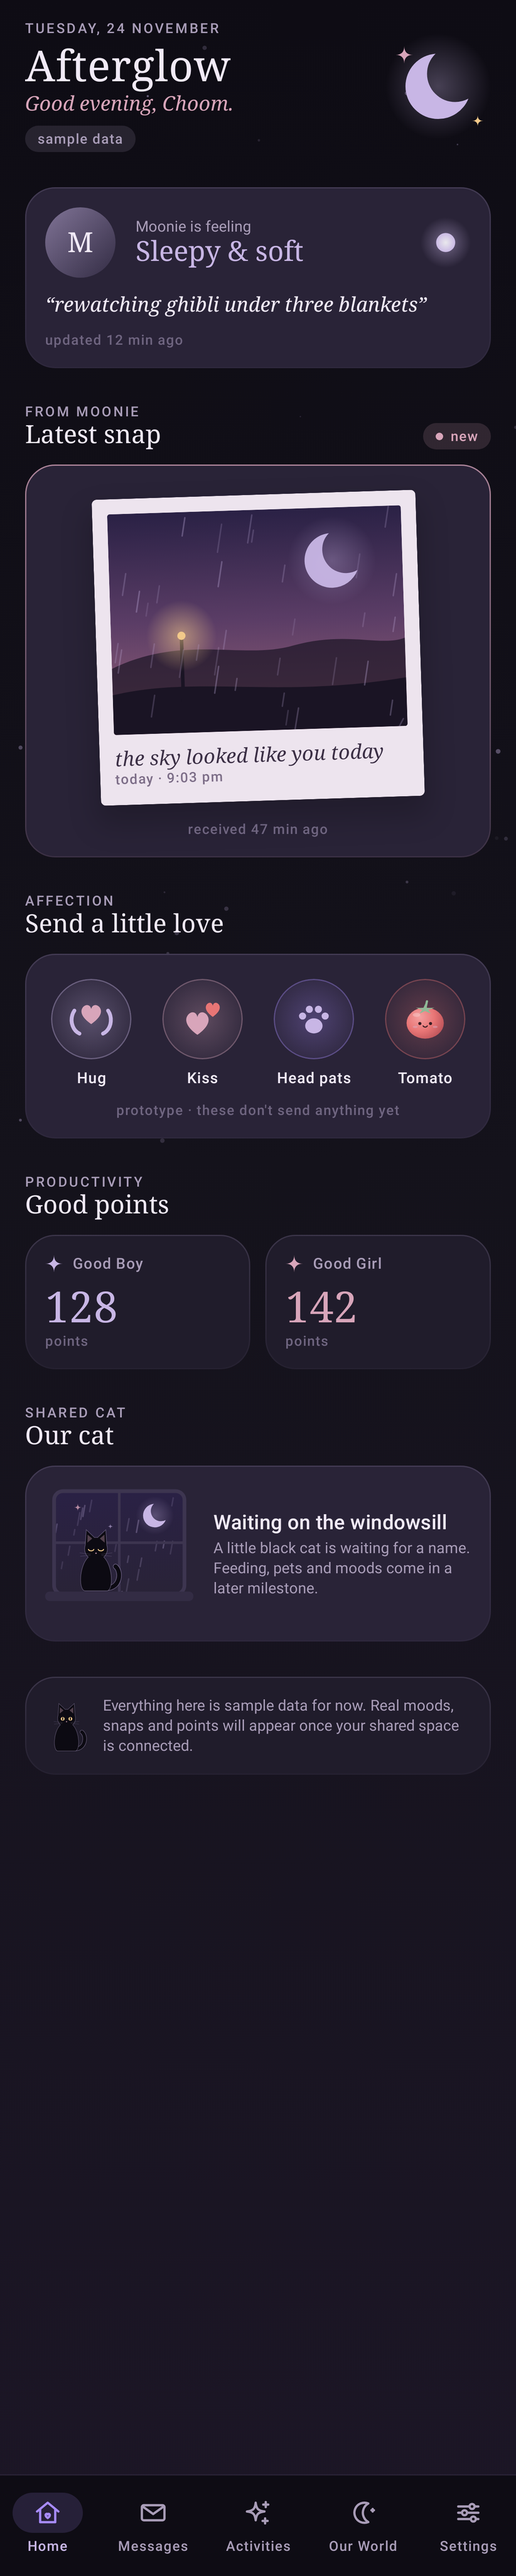
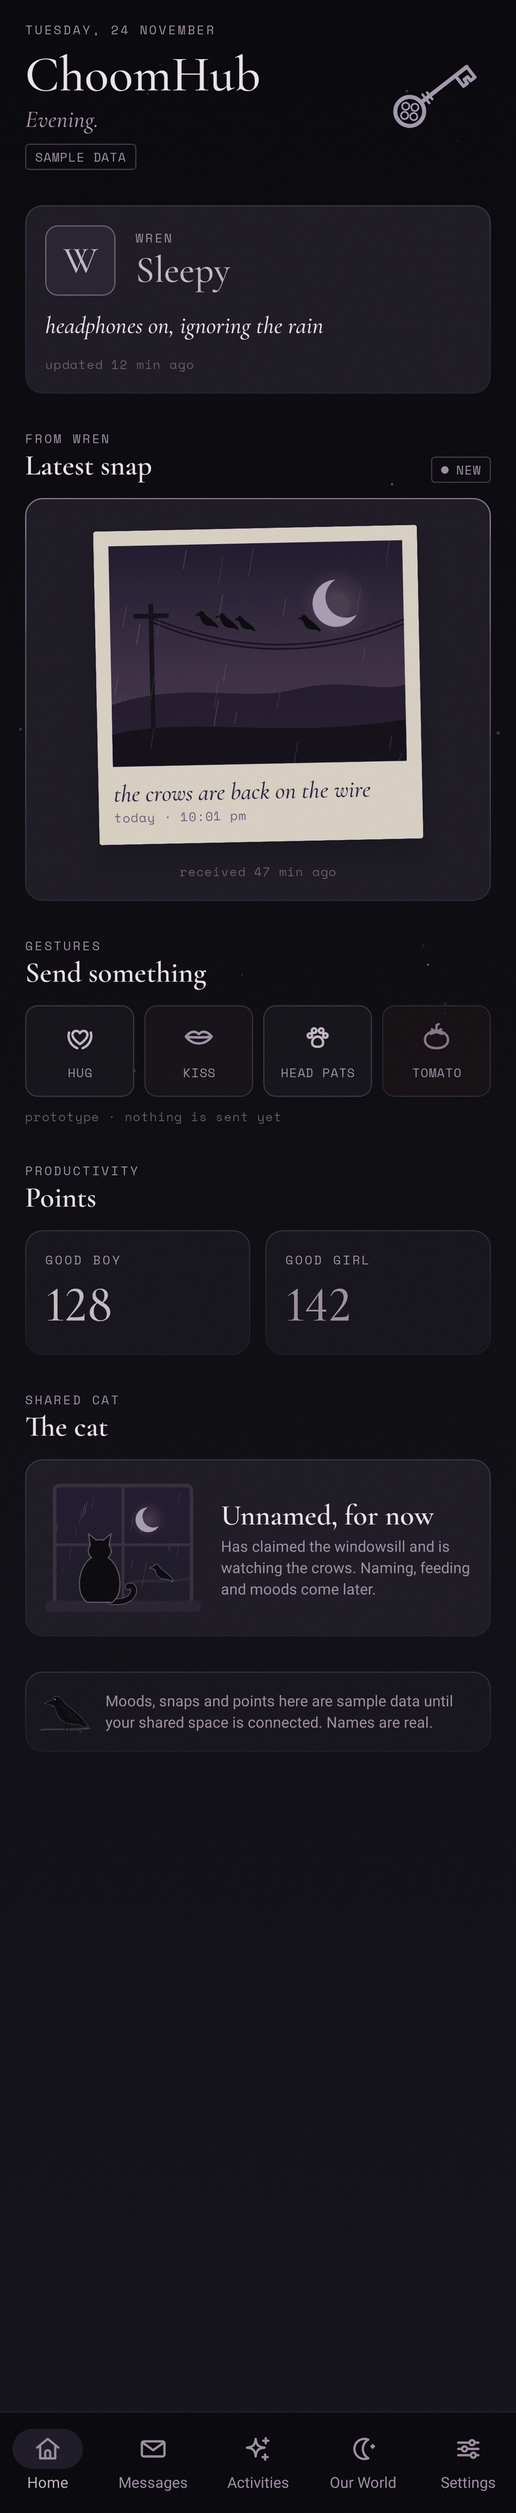
docs: update for naming, rename and new visual direction
README reflects ChoomHub, the naming flow and the new look, with
refreshed screenshots (onboarding, home, settings, motif gallery).
ARCHITECTURE covers the onboarding gate, who-names-whom model, profile
storage, bundled fonts, motif rendering and Hilt-swapped UI tests.
ROADMAP adds Milestone 1.1 and moving the cat to Our World later.
DECISIONS adds ADR-013 to ADR-019.

Claude-Session: https://claude.ai/code/session_013dW5xGbkpsdHyocoM7enUL

diff --git a/docs/ARCHITECTURE.md b/docs/ARCHITECTURE.md
@@ -25,30 +25,35 @@ Room, Supabase and sync are planned (sections 4 to 6).
 
 ```
 com.choomhub.app
-├── ChoomHubApplication.kt        @HiltAndroidApp
+├── ChoomHubApplication.kt         @HiltAndroidApp
 ├── MainActivity.kt                edge-to-edge, theme, reduced-motion flag
-├── ui/ChoomHubApp.kt             root scaffold: backdrop, bottom bar, snackbar, NavHost
+├── ui/
+│   ├── ChoomHubApp.kt             root: backdrop, onboarding/main gate, bottom bar, snackbar, NavHost
+│   └── AppViewModel.kt            decides Loading / Onboarding / Main from the profile
 ├── core/
 │   ├── common/                    TimeLabels, Clock provider (Hilt)
+│   ├── datastore/                 DataStore<Preferences> provider (Hilt)
 │   ├── designsystem/
-│   │   ├── theme/                 Color, Type, Shape, Spacing, Motion, ChoomHubTheme
-│   │   ├── component/             cards, buttons, badges, headers, backdrop, ComingSoonScreen
-│   │   ├── illustration/          Canvas art: moon, sparkles, tomato, cat, scenes, glyphs
-│   │   └── icon/                  custom line icons (ImageVector)
+│   │   ├── theme/                 Color, Type (bundled fonts), Shape, Spacing, Motion, ChoomHubTheme
+│   │   ├── component/             cards, buttons, gesture tiles, text field, badges, film grain, ComingSoonScreen
+│   │   ├── illustration/          Canvas art: rotating gothic motifs, crows, cat, scenes, tomato
+│   │   └── icon/                  custom line icons (navigation + gestures)
 │   ├── navigation/                TopLevelDestination, ChoomHubBottomBar
 │   └── network/BackendConfig.kt   build-time backend config (unused until Supabase lands)
 ├── domain/
-│   ├── model/                     Member, Mood, PartnerMood, Snap, PointBalances, ...
-│   └── repository/                HomeRepository (interface)
+│   ├── model/                     CoupleNames + NameRules, Member, Mood, PartnerMood, Snap, ...
+│   └── repository/                HomeRepository, ProfileRepository (interfaces)
 ├── data/
-│   ├── sample/                    SampleHomeRepository (local sample data)
-│   └── di/                        DataModule: binds interfaces to implementations
+│   ├── profile/                   DataStoreProfileRepository (names, device-local for now)
+│   ├── sample/                    SampleHomeRepository (real names + sample content)
+│   └── di/                        DataModule, ProfileModule: interface bindings
 └── feature/
+    ├── onboarding/                "What do you call them?" first-run screen + ViewModel
     ├── home/                      HomeRoute, HomeViewModel, HomeUiState, HomeScreen, components
     ├── messages/                  placeholder
     ├── activities/                placeholder
     ├── world/                     "Our World" placeholder
-    └── settings/                  status screen
+    └── settings/                  names (inline rename) and status
 ```
 
 The original plan listed a top-level `app/` package; root UI lives in `ui/` instead, to avoid a
@@ -56,7 +61,7 @@ The original plan listed a top-level `app/` package; root UI lives in `ui/` inst
 `core/notifications`, `data/local`, `data/remote` and `feature/widget` are created when their
 first real code arrives, not as empty placeholders.
 
-## 2. MVVM and the repository pattern (implemented for Home)
+## 2. MVVM and the repository pattern (implemented for Home, Onboarding, Settings)
 
 - **Screens** come in pairs: a stateful entry (`HomeScreen`) that obtains the ViewModel with
   `hiltViewModel()` and collects state with `collectAsStateWithLifecycle()`, and a stateless
@@ -76,18 +81,34 @@ first real code arrives, not as empty placeholders.
 - **Navigation**: each feature owns a `@Serializable` route object and a
   `NavGraphBuilder.xxxScreen()` extension; `ChoomHubApp` composes them.
   `TopLevelDestination` drives the bottom bar.
+- **App gate**: onboarding is not a navigation destination. `AppViewModel` observes the profile
+  and `ChoomHubApp` shows onboarding until the partner has a name, then the main scaffold. Later
+  gates (signed out, not paired) slot in the same way.
+
+### Names: who names whom
+
+Each member's display name is chosen by the *other* member. On a device, `CoupleNames` holds
+`partnerName` (written by this person, via onboarding or Settings) and `myName` (written only by
+sync, from the partner's phone). Today both live in DataStore and `myName` stays empty. With the
+backend, each member row gets a `display_name` that only the partner may update (RLS), the
+values move to Room, and the `ProfileRepository` interface stays the same.
 
 ## 3. Design system (implemented)
 
 - `ChoomHubTheme` wraps `MaterialTheme` with a custom dark `ColorScheme` and exposes extra tokens
   through `ChoomHubTheme.colors` and `ChoomHubTheme.spacing` (CompositionLocals).
-- The app is **always dark** by design; no light theme, no dynamic colour.
-- Typography: platform serif for display/titles (letters, paperbacks), default sans for body.
-  Fonts are system fonts so nothing is bundled yet.
-- Illustrations are drawn with Compose `Canvas` (no bitmaps, no emoji), scale to any size and
-  pick up palette changes automatically.
-- `LocalAmbientMotionEnabled` turns off continuous decorative animation (twinkling stars) when the
-  system "remove animations" setting is on. Tests use this as well.
+- The app is **always dark** by design; no light theme, no dynamic colour. Accents are
+  desaturated (dusty violet, faded rose, old gold, bone) over near-black with a fine film grain.
+- Typography: **Cormorant Garamond** (display, captions; variable weight) and **Space Mono**
+  (labels, eyebrows, timestamps) are bundled under `res/font/`, subset to Latin; body text uses
+  the platform sans. Numbers that matter use lining figures.
+- Illustrations are drawn with Compose `Canvas`. Complex shapes (raven, moth, candle, cat,
+  cobweb) are SVG path data on a 100 × 100 grid in `MotifPaths.kt`, parsed once and drawn
+  through small helpers in `MotifDrawing.kt`; the launcher icon reuses the same raven paths.
+- **Rotating header art**: `GothicMotif.forDate()` picks one of six motifs per three-day window,
+  deterministically from the date, so both phones show the same one.
+- `LocalAmbientMotionEnabled` turns off continuous decorative animation (twinkling stars, candle
+  flicker) when the system "remove animations" setting is on. Tests use this as well.
 
 ## 4. Offline-first approach (planned)
 
@@ -199,12 +220,15 @@ through `supabase secrets set`, never committed.
 
 ## 10. Testing
 
-- **Unit tests** (`src/test`): pure logic (`TimeLabels`) and ViewModels with fake repositories, a
-  fixed `Clock` and `kotlinx-coroutines-test`.
-- **Robolectric UI tests** (`src/test`): launch the real `MainActivity` with Hilt on the JVM,
-  check that Home renders and walk every bottom-nav tab.
-- **Screenshot capture** (`ScreenshotCaptureTest`): renders each tab to PNG under
-  `app/build/outputs/screenshots/` for visual review without a device (no pixel comparison).
+- **Unit tests** (`src/test`): pure logic (`TimeLabels`, `NameRules`, motif rotation) and
+  ViewModels with fakes, a fixed `Clock` and `kotlinx-coroutines-test`.
+- **Robolectric UI tests** (`src/test`): launch the real `MainActivity` on the JVM with
+  `HiltTestApplication`. `@UninstallModules(ProfileModule::class)` plus `@BindValue` swap the
+  DataStore profile for `FakeProfileRepository`, so each test chooses whether onboarding has
+  happened. Covered: first-run naming, rename from Settings, every bottom-nav tab, gesture notice.
+- **Screenshot capture** (`ScreenshotCaptureTest`, `MotifGalleryCaptureTest`): renders screens and
+  all header motifs to PNG under `app/build/outputs/screenshots/` for visual review without a
+  device (no pixel comparison).
 - Instrumented (on-device) tests will be added once there is device-specific behaviour (widget,
   notifications).
 

diff --git a/README.md b/README.md
@@ -2,41 +2,46 @@
 
 *A little world for two.*
 
-ChoomHub is a private Android app for exactly two people: a small,
-cozy, slightly gloomy shared space for moods, snaps, letters, affection, playful points, a shared
-black cat and a lot of tomatoes. It is not a social network: no public profiles, feeds, ads or
-monetisation.
+ChoomHub is a private Android app for exactly two people: a small, dark, quiet shared space for
+moods, snaps, letters, gestures, playful points, a shared black cat and a fair number of tomatoes
+and crows. It is not a social network: no public profiles, feeds, ads or monetisation.
 
 <p align="center">
-  <img src="docs/screenshots/home.png" width="260" alt="Home screen" />
-  <img src="docs/screenshots/our_world.png" width="260" alt="Our World placeholder" />
-  <img src="docs/screenshots/settings.png" width="260" alt="Settings" />
+  <img src="docs/screenshots/onboarding.png" width="200" alt="First launch: naming your partner" />
+  <img src="docs/screenshots/home.png" width="200" alt="Home screen" />
+  <img src="docs/screenshots/settings.png" width="200" alt="Settings" />
+  <img src="docs/screenshots/motifs.png" width="230" alt="Rotating header motifs" />
 </p>
 
-<sub>Screenshots are rendered on the JVM by `ScreenshotCaptureTest` (Robolectric), not taken on a device.</sub>
+<sub>Screenshots are rendered on the JVM by `ScreenshotCaptureTest` / `MotifGalleryCaptureTest`
+(Robolectric), not taken on a device.</sub>
 
 ## Product vision
 
-Rainy nights, black cats, purple and muted-pink light, polaroids and handwritten letters, cute
-tomatoes. The interface should feel intimate and a little magical while staying readable and calm.
-The full feature roadmap lives in [docs/ROADMAP.md](docs/ROADMAP.md).
+Gloomy and alternative rather than cute: rain, ravens and crows, moths and candles, polaroids,
+old-book serif type with a typewriter edge, dusty violet and faded rose on near-black. Warm without
+being sugary. The full feature roadmap lives in [docs/ROADMAP.md](docs/ROADMAP.md).
 
-## Current status: Milestone 1 (foundation and visual prototype)
+## Current status
 
 What exists **today**:
 
 - A buildable single-module Android project (`com.choomhub.app`).
-- A custom dark design system: palette, typography, shapes, spacing, cards, buttons, badges,
-  hand-drawn Canvas illustrations (moon, sparkles, tomato, black cat, rainy window, love letter,
-  polaroids) and custom navigation icons.
-- A polished **home screen** driven by **local sample data** (clearly labelled as such):
-  partner mood, latest snap, affection buttons, Good Boy / Good Girl points, shared-cat teaser.
-- Bottom navigation between Home, Messages, Activities, Our World and Settings. The non-home
-  tabs are honest "coming soon" screens; Settings shows the real configuration status.
-- Unit tests plus Robolectric UI tests that launch the app and walk every tab.
+- A custom dark design system: muted palette, Cormorant Garamond + Space Mono (bundled, OFL),
+  film grain, line-art gesture icons, and hand-drawn Canvas illustrations: a set of six gothic
+  header motifs that rotate every three days, crows on a wire, the shared cat watching a crow
+  through a rainy window, a sealed letter, tarot cards, polaroids.
+- **Naming**: on first launch you name your partner; you can rename them in Settings. Each person
+  names the other, so the name your partner picks for you is the one you'll see once the two
+  phones are connected. Stored on the device for now.
+- A **home screen** with your partner's (real) name and **sample** mood, latest snap, gesture
+  buttons, Good Boy / Good Girl points and the shared cat, clearly labelled as sample data.
+- Bottom navigation between Home, Messages, Activities, Our World and Settings. Non-home tabs are
+  honest "coming soon" screens.
+- Unit tests plus Robolectric UI tests (onboarding, renaming, navigation, screenshot capture).
 
-What does **not** exist yet: login, Supabase, Room, sync, notifications, widgets, or any feature
-that actually sends something. The affection buttons say so when tapped.
+What does **not** exist yet: accounts, Supabase, Room, sync, notifications, widgets, or anything
+that actually sends something to the other phone. The gesture buttons say so when tapped.
 
 ## Technology stack
 
@@ -46,8 +51,9 @@ that actually sends something. The affection buttons say so when tapped.
 | Architecture | MVVM + Clean Architecture layering, feature packages | Yes |
 | DI | Hilt (KSP) | Yes |
 | Navigation | Navigation Compose with type-safe `@Serializable` routes | Yes |
+| Preferences | DataStore (Preferences) | Yes (names, interim) |
 | Build | Gradle Kotlin DSL, version catalog, AGP 9 built-in Kotlin | Yes |
-| Local DB / prefs / background | Room, DataStore, WorkManager | Planned |
+| Local DB / background | Room, WorkManager | Planned |
 | Images / widgets | Coil, Jetpack Glance | Planned |
 | Backend | Supabase (Auth, Postgres + RLS, Storage, Realtime, Edge Functions) via supabase-kt | Planned |
 | Push | Firebase Cloud Messaging (HTTP v1, sent from an Edge Function) | Planned |
@@ -80,11 +86,11 @@ From a terminal:
 ./gradlew lintDebug              # Android lint
 ```
 
-After `testDebugUnitTest`, rendered screenshots of every tab are written to
-`app/build/outputs/screenshots/`.
+After `testDebugUnitTest`, rendered screenshots of every screen (and the motif gallery) are
+written to `app/build/outputs/screenshots/`.
 
-No backend credentials are needed for this milestone. See
-[docs/ARCHITECTURE.md § Configuration](docs/ARCHITECTURE.md#configuration) for how they will be
+No backend credentials are needed yet. See
+[docs/ARCHITECTURE.md § Configuration](docs/ARCHITECTURE.md#9-configuration) for how they will be
 supplied later.
 
 ## Documentation
@@ -94,9 +100,7 @@ supplied later.
 - [docs/ROADMAP.md](docs/ROADMAP.md): milestones and status.
 - [docs/DECISIONS.md](docs/DECISIONS.md): architectural decision log.
 
-## Planned feature roadmap (summary)
+## Licences
 
-Moods and check-ins · affection gestures · snaps with a home-screen widget · messages, voice notes
-and letters · productivity achievements and a ledger-based points system · shared cat · tomato
-universe · shared room, memories, daily questions and mini-games. Details and order in
-[docs/ROADMAP.md](docs/ROADMAP.md).
+Bundled fonts: Cormorant Garamond and Space Mono, both under the SIL Open Font License 1.1
+(texts in `app/src/main/assets/licenses/`).

diff --git a/docs/DECISIONS.md b/docs/DECISIONS.md
@@ -68,7 +68,7 @@ no UI changes. No fake production credentials exist anywhere.
 
 ## ADR-008: Always-dark custom theme, Canvas illustrations, system fonts
 
-**Date:** 2026-11-24 · **Status:** Accepted
+**Date:** 2026-11-24 · **Status:** Partly superseded by ADR-016 (fonts, visual direction)
 
 The identity is intentionally dark, so there is no light theme and no dynamic colour. Artwork is
 drawn in Compose `Canvas` instead of emoji or bitmaps, so it scales, follows the palette and adds
@@ -108,3 +108,65 @@ widget and notification behaviour.
 Private photos, messages and sessions should not be copied into Google cloud backups or
 device-to-device transfers. `allowBackup="false"` plus data-extraction rules exclude everything.
 The shared space is restored from Supabase after sign-in instead.
+
+## ADR-013: One name everywhere: ChoomHub
+
+**Date:** 2026-11-24 · **Status:** Accepted
+
+The app, package (`com.choomhub.app`), application ID, code identifiers, resources, config keys
+(`choomhub.supabase.*`) and docs all use ChoomHub. The application ID changed from the first
+prototype build, so that build must be uninstalled; it held no data. Earlier git history still
+contains the working title and is left as is (history is never rewritten).
+
+## ADR-014: Each member names the other
+
+**Date:** 2026-11-24 · **Status:** Accepted
+
+On first launch you name your partner; that name is how they appear in the app, on both phones.
+Your own name is whatever your partner chose. Either can be changed at any time from Settings.
+Modelled as `CoupleNames(partnerName, myName)` behind `ProfileRepository`. Server side (later),
+a member's `display_name` will be writable only by the *other* member of the couple via RLS.
+
+## ADR-015: DataStore as interim storage for names
+
+**Date:** 2026-11-24 · **Status:** Accepted
+
+Names are needed before Room and sync exist. They are stored in a single Preferences DataStore
+now (the first use of the already-chosen DataStore technology) and will move to Room's members
+table when sync arrives, without changing the repository interface. DataStore files are excluded
+from backups by the existing data-extraction rules.
+
+## ADR-016: Visual direction: alternative-gloomy, not cute (supersedes parts of ADR-008)
+
+**Date:** 2026-11-24 · **Status:** Accepted
+
+Feedback on the first prototype: too cartoonish, slightly "AI-generated". Changes: desaturated
+palette, tighter corner radii, film grain, no faces/sparkles/bubbles, line-art gesture icons,
+silhouette-style illustrations, crows and ravens as a recurring motif, plainer copy. ADR-008's
+"system fonts" point is superseded: **Cormorant Garamond** and **Space Mono** are bundled (SIL
+OFL, subset to Latin, about 470 KB total) because type carries most of the mood. Always-dark and
+Canvas illustrations still stand.
+
+## ADR-017: Rotating header art by date
+
+**Date:** 2026-11-24 · **Status:** Accepted
+
+The header shows one of six gothic motifs, changing every three days. It is computed purely from
+the calendar date (`GothicMotif.forDate`), so it needs no storage or sync and both phones agree.
+
+## ADR-018: Inline editing instead of dialogs for simple fields
+
+**Date:** 2026-11-24 · **Status:** Accepted
+
+Renaming happens inline inside the Settings card rather than in a pop-up dialog. It is calmer,
+keeps context visible, and Compose UI tests could not reliably drive text entry inside a dialog
+window under Robolectric.
+
+## ADR-019: Hilt test bindings for UI tests
+
+**Date:** 2026-11-24 · **Status:** Accepted
+
+Robolectric UI tests run under `HiltTestApplication` (set in `robolectric.properties`) and replace
+`ProfileModule` with an in-memory fake via `@UninstallModules` + `@BindValue`. This keeps tests
+independent of on-disk DataStore state. Repository bindings that tests need to swap live in their
+own small Hilt modules for this reason.

diff --git a/docs/ROADMAP.md b/docs/ROADMAP.md
@@ -14,13 +14,22 @@ The order after Milestone 1 is a proposal; it will change as we go.
 - ✅ Unit tests and Robolectric navigation tests
 - ✅ README, architecture, roadmap and decision docs
 
+## Milestone 1.1: Identity and visual direction ✅
+
+- ✅ Renamed to ChoomHub everywhere (package `com.choomhub.app`)
+- ✅ First-run naming: you name your partner; editable in Settings (device-local until sync)
+- ✅ Darker, less cartoonish look: muted palette, bundled Cormorant Garamond + Space Mono,
+  film grain, line-art gesture icons
+- ✅ Rotating gothic header art (raven, moth, candle, key, moon and crows, cobweb), crows in scenes
+- ✅ Raven-and-moon launcher icon; toned-down copy
+
 ## Milestone 2: Backend foundation and pairing ⬜
 
 - ⬜ Supabase project setup, SQL migrations, RLS policies (`couples`, `members`)
 - ⬜ supabase-kt + Ktor client, configuration from `local.properties`
 - ⬜ Authentication (sign-in method to be decided)
 - ⬜ Couple pairing via single-use invite and server-side validation
-- ⬜ Onboarding flow, real member names and avatars
+- ⬜ Sync names both ways (your name for them → their phone), avatars
 
 ## Milestone 3: Offline-first core ⬜
 
@@ -33,7 +42,7 @@ The order after Milestone 1 is a proposal; it will change as we go.
 
 - ⬜ Mood picker, custom description, current activity/status
 - ⬜ Partner mood on Home from real data
-- ⬜ Hugs, kisses, head pats, cuddles, thinking-of-you, comfort, custom affection buttons
+- ⬜ Hugs, kisses, head pats, tomato deliveries, cuddles, thinking-of-you, comfort, custom gestures
 - ⬜ Daily emotional check-ins, stay-with-me mode
 
 ## Milestone 5: Notifications ⬜
@@ -62,6 +71,7 @@ The order after Milestone 1 is a proposal; it will change as we go.
 
 ## Milestone 9: Shared cat ⬜
 
+- ⬜ Move the cat from Home to Our World
 - ⬜ Adoption, name, personality
 - ⬜ Feeding, petting, moods (server-validated)
 - ⬜ Accessories, unlockable decorations, animations
